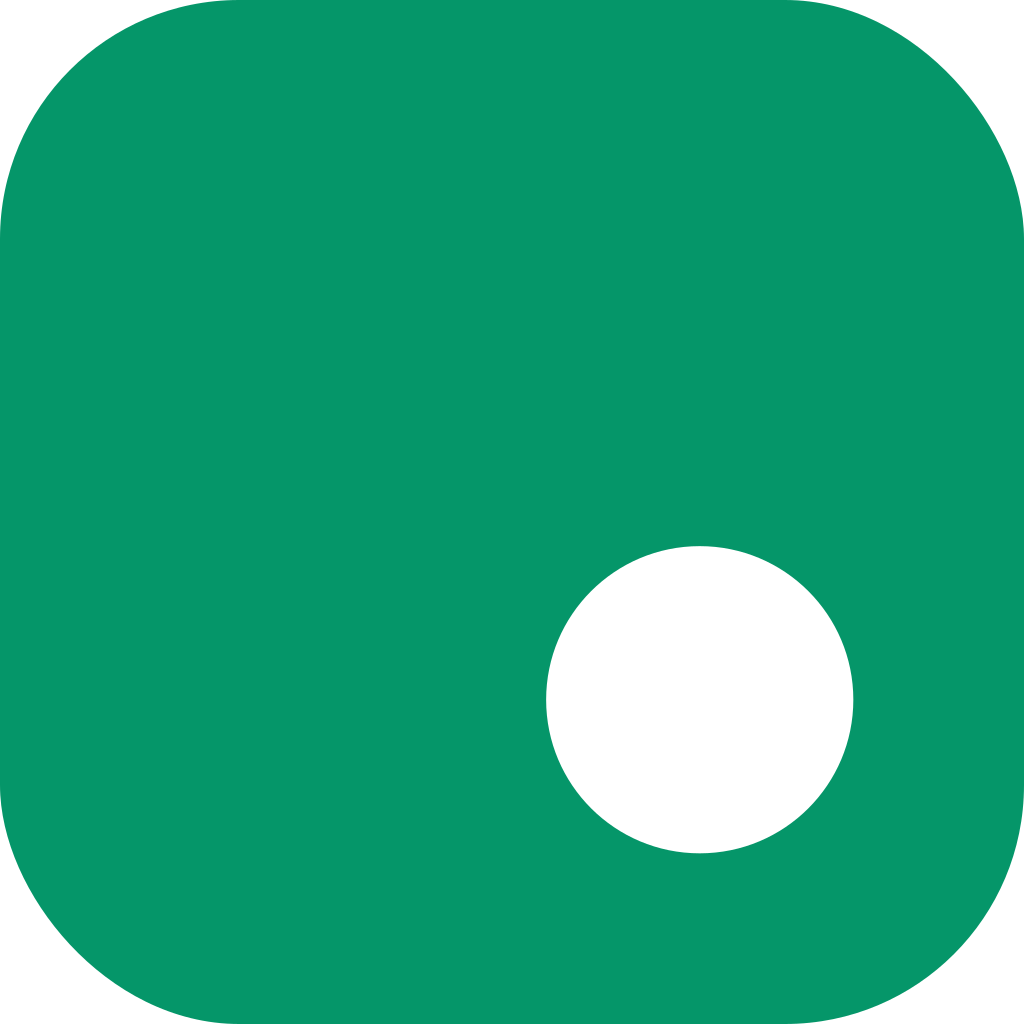
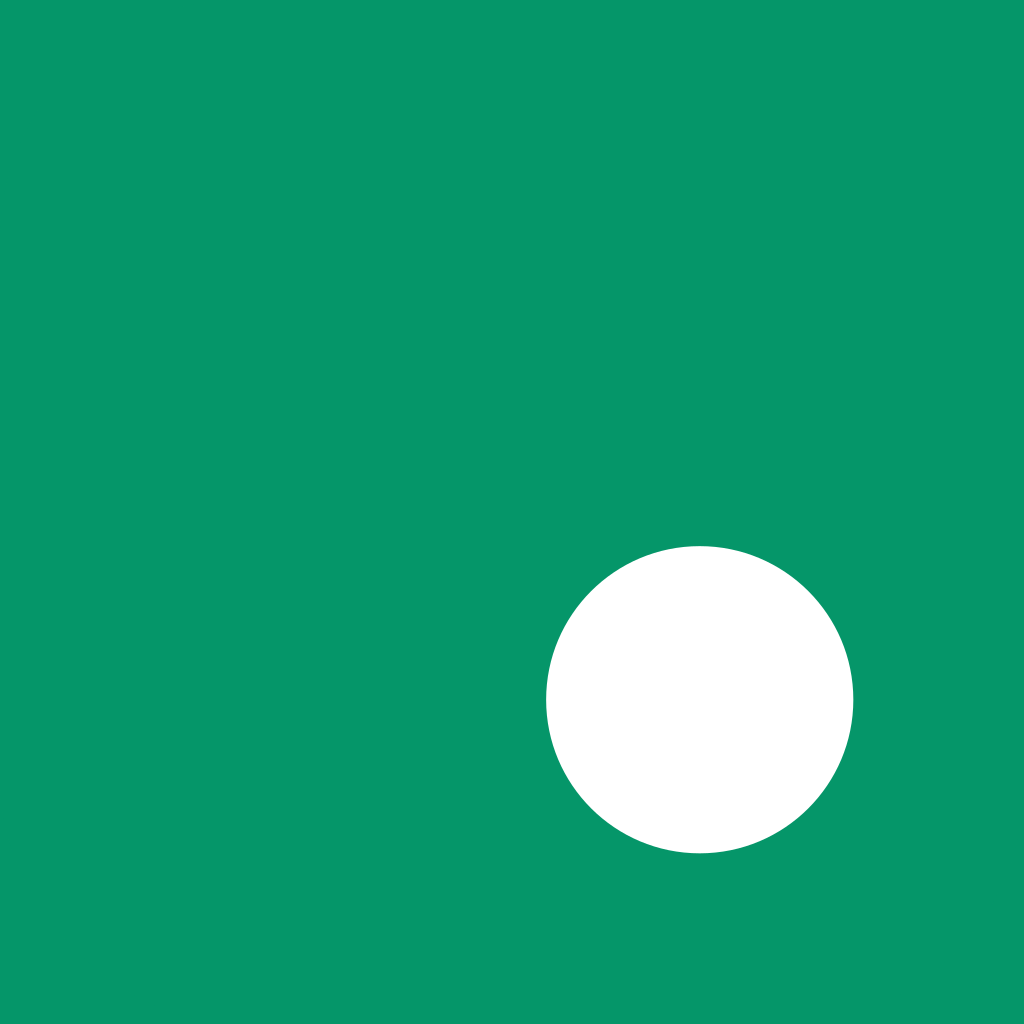
fix(web): responsive complet 320→1280 + icône iOS sans canal alpha
Site — deux trous trouvés au banc de test, invisibles en lecture de code
- Le repli des blocs <pre>/<code> était enfermé dans @media 900px. Or un
  jeton de 90 caractères déborde à 1024 px exactement comme à 390 px : la
  largeur de l'écran n'y change rien. Sorti de la media query, il
  s'applique désormais partout. C'était la cause des 195 px de défilement
  horizontal mesurés en 1024 px.
- Les grilles posées en style inline (repeat(3), repeat(5)…) passaient
  d'un coup à une colonne sous 900 px et débordaient entre 900 et 1200.
  Remplacées par `auto-fit` + `minmax(min(100%, 180px), 1fr)` jusqu'à
  1200 px : le nombre de colonnes suit la largeur au lieu de basculer.
- Portée élargie au-delà de .main : plusieurs pages posent leur contenu
  dans un <div> nu sous render_head(). Le gabarit partagé ne contient
  aucune grille en style inline, donc rien à casser.

superadmin-layout.php
- 20 pages ont leur propre gabarit, sans le filet ni l'enveloppe des
  tableaux. Le même dispositif y est ajouté, adapté à .sa-main.

Vérifié : 320 / 390 / 768 / 1024 / 1280 px, défilement horizontal réel
mesuré (scrollLeft après tentative) = 0 partout.

iOS — icône
- icon.png contenait un canal alpha portant les coins arrondis. Apple
  refuse une icône d'app transparente, et iOS applique de toute façon son
  propre masque : une icône pré-arrondie produit un double arrondi.
  Aplatie sur le vert de marque, réécrite en RVB sans alpha.
[…]

diff --git a/includes-layout.php b/includes-layout.php
@@ -1222,21 +1222,36 @@ body { font-family: var(--font-sans); color: var(--ink); font-size: 14px; line-h
   .ak-tblwrap > table { min-width: max-content; }
 }
 
+/* Grilles posées en style inline (repeat(3), repeat(5)…) : elles gardent
+   leur gabarit desktop tant qu'aucune règle ne les libère, et débordaient
+   aussi bien sur téléphone que sur tablette. `auto-fit` place autant de
+   colonnes que la largeur permet et descend seul jusqu'à une seule ;
+   `min(100%, 180px)` évite de déborder quand le conteneur est plus étroit
+   que la colonne minimale.
+   Portée volontairement large (pas seulement .main) : plusieurs pages
+   posent leur contenu dans un <div> nu sous render_head(). Le gabarit
+   partagé ne contient aucune grille en style inline, donc rien à casser. */
+@media (max-width: 1200px) {
+  [style*="grid-template-columns"] { grid-template-columns: repeat(auto-fit, minmax(min(100%, 180px), 1fr)) !important; }
+}
+
+/* Un contenu insécable (URL, IBAN, e-mail, jeton) élargit le bloc parent
+   au lieu de se couper. Volontairement HORS media query : un <pre> qui
+   contient un jeton de 90 caractères déborde à 1024 px comme à 390 px —
+   la largeur de l'écran n'y change rien.
+   `break-word` ne coupe que le mot qui déborde réellement ; `anywhere`,
+   réservé aux blocs de code, couperait aussi la prose normale. */
+.main { overflow-wrap: break-word; }
+.main pre, .main code { max-width: 100%; overflow-x: auto; white-space: pre-wrap; overflow-wrap: anywhere; }
+
 /* Médias : jamais plus larges que leur colonne. `height:auto` évite la
    déformation quand seule la largeur est contrainte. */
 .main img, .main video, .main canvas, .main svg, .main iframe { max-width: 100%; }
 .main img, .main video { height: auto; }
 
 @media (max-width: 900px) {
-  /* Un contenu insécable (URL, IBAN, e-mail, jeton) élargissait le bloc
-     parent au lieu de se couper. `break-word` ne coupe que le mot qui
-     déborde vraiment — `anywhere` couperait aussi la prose normale. */
-  .main { overflow-wrap: break-word; }
-  .main pre, .main code { max-width: 100%; overflow-x: auto; white-space: pre-wrap; overflow-wrap: anywhere; }
 
-  /* Grilles à colonnes fixes : elles gardent leur gabarit desktop tant
-     qu'aucune règle ne les libère. On les repasse en une colonne. */
-  .main [style*="grid-template-columns"] { grid-template-columns: 1fr !important; }
+
 
   /* Panneaux latéraux à largeur figée (listes de messages, filtres) :
      `flex-shrink:0` + largeur fixe = débordement garanti sous 400 px. */

diff --git a/superadmin-layout.php b/superadmin-layout.php
@@ -624,6 +624,22 @@ button { font: inherit; cursor: pointer; border: none; background: none; color: 
 
 /* Empty state un peu plus premium */
 .sa-empty-title { color: var(--sa-ink-2); }
+
+/* ── Filet responsive (même principe que includes-layout.php) ──────────
+   Ces 20 pages ont leur propre gabarit : sans ce bloc, ni l'enveloppe des
+   tableaux ni le repli des grilles ne s'y appliquent. */
+.sa-shell, .sa-main, .sa-card, .ak-tblwrap { min-width: 0; }
+.ak-tblwrap { width: 100%; max-width: 100%; overflow-x: auto; -webkit-overflow-scrolling: touch; overscroll-behavior-x: contain; }
+.ak-tblwrap > table { margin: 0; }
+.sa-main img, .sa-main video, .sa-main canvas, .sa-main svg { max-width: 100%; }
+.sa-main img, .sa-main video { height: auto; }
+@media (max-width: 900px) {
+  .ak-tblwrap > table { min-width: max-content; }
+  .sa-main { overflow-wrap: break-word; }
+  /* Grilles posées en style inline : elles n'ont aucun point de rupture. */
+  .sa-main [style*="grid-template-columns"] { grid-template-columns: 1fr !important; }
+  .sa-main pre, .sa-main code { max-width: 100%; overflow-x: auto; white-space: pre-wrap; overflow-wrap: anywhere; }
+}
 </style>
 </head>
 <body>
@@ -818,6 +834,31 @@ function sa_render_foot(): void {
     ?>
   </main>
 </div>
+<script>
+/* Enveloppe les tableaux pour qu'ils défilent dans leur bloc plutôt que
+   d'élargir la page — un <table> ne peut pas défiler seul. */
+(function () {
+  function envelopper() {
+    var racine = document.querySelector('.sa-main') || document.body;
+    var tables = racine.querySelectorAll('table');
+    for (var i = 0; i < tables.length; i++) {
+      var t = tables[i];
+      if (t.closest('.ak-tblwrap')) continue;
+      var parent = t.parentNode;
+      if (parent && parent.nodeType === 1) {
+        var ox = getComputedStyle(parent).overflowX;
+        if (ox === 'auto' || ox === 'scroll') continue;
+      }
+      var wrap = document.createElement('div');
+      wrap.className = 'ak-tblwrap';
+      parent.insertBefore(wrap, t);
+      wrap.appendChild(t);
+    }
+  }
+  if (document.readyState === 'loading') document.addEventListener('DOMContentLoaded', envelopper);
+  else envelopper();
+})();
+</script>
 </body>
 </html>
     <?php
